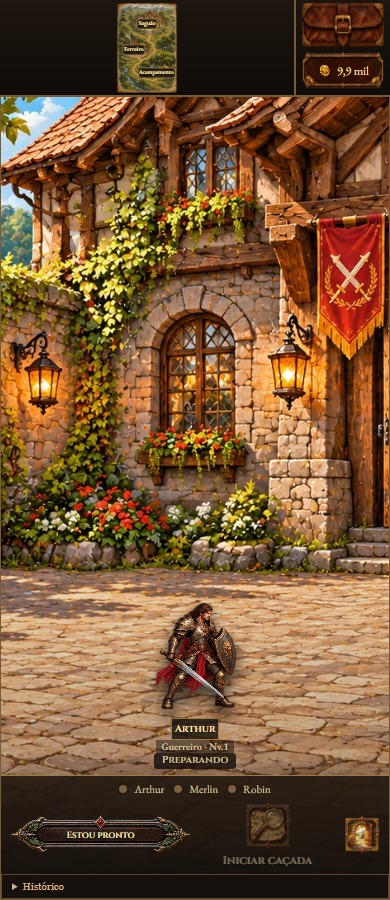
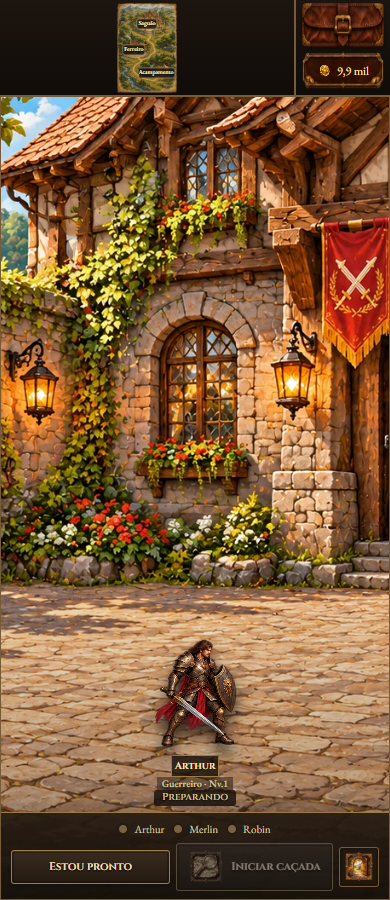
Align dungeon controls and battle history with campaign presentation

diff --git a/assets/js/systems/dungeon-rogue-app.js b/assets/js/systems/dungeon-rogue-app.js
@@ -40,7 +40,7 @@ function animate(before,after){
  for(const u of [...after.party,...after.enemies]){const old=[...before.party,...before.enemies].find(h=>h.id===u.id),target=root.querySelector(`[data-unit="${u.id}"]`);if(!old||!target||old.hp===u.hp)continue;const value=Math.round(u.hp-old.hp),f=document.createElement('span');f.className='rogue-float'+(value>0?' heal':'');f.textContent=(value>0?'+':'')+value;target.classList.add(value>0?'rogue-recover':'rogue-impact');target.append(f);setTimeout(()=>f.remove(),950);}
 }
 function send(intent){try{if(visualBusy)throw Error('Aguarde a sequência de golpes.');const p={...intent,revision:state.revision};if(net.info.mode==='guest')net.send(p,++seq);else commit(E.transition(state,localId(),p));}catch(e){message(e.message);}}
-function btn(label,action,data={},disabled=false,extra=''){return `<button type="button" data-action="${action}" ${Object.entries(data).map(([k,v])=>`data-${k}="${esc(v)}"`).join(' ')} ${disabled?'disabled':''} ${extra}>${label}</button>`;}
+function btn(label,action,data={},disabled=false,extra=''){const imageControl=action==='items'||/base-map-area|base-item-slot|base-equipment-slot|base-bag-button|base-person-button|rogue-entity-button|rogue-skill|rogue-basic|dungeon-hunt|base-exit/.test(extra);return `<button type="button" ${imageControl?'':'data-ui="action"'} data-action="${action}" ${Object.entries(data).map(([k,v])=>`data-${k}="${esc(v)}"`).join(' ')} ${disabled?'disabled':''} ${extra}>${label}</button>`;}
   function art(h){let key=slug(h.subclassChoices?.tier60||h.subclassChoices?.tier30||h.class),folder='heroes-v2';const f=h.effects||{};if(key==='corrompido'&&f.visualDemonTurns>0){key+='-demonio';folder='hero-forms';}if(key==='fada-monarca'&&f.natureCrownedTurns>0){key+='-coroada';folder='hero-forms';}if(key==='avatar-da-natureza'&&f.natureTrueFormTurns>0){key+='-verdadeira';folder='hero-forms';}return new URL('assets/visual/'+folder+'/'+key+'.webp',document.baseURI).href;}
   function figure(h){return `<span class="rogue-character" style="--hero-art:url('${art(h)}')" role="img" aria-label="${esc(heroTitle(h))}"></span>`;}
   function heroTitle(h){return E.withHero(state,h,null,()=>getDisplayedClassName(h));}
@@ -73,16 +73,17 @@ function btn(label,action,data={},disabled=false,extra=''){return `<button type=
     return `<section class="rogue-command"><div class="rogue-command-grid"><div class="rogue-potion-slot">${btn('<img src="assets/visual/hud/icon-potion.webp" alt=""><span>Itens</span>','items',{},!own||restricted)}</div><div class="rogue-skills">${btn(`<kbd>1</kbd><img src="${getSkillSpritePath(null,h.class)}" alt=""><span>Ataque básico</span><small>${basicCost} MP</small>`,'select',{kind:'basic'},!own||h.mp<basicCost,`class="rogue-basic ${selected?.kind==='basic'?'selected':''}" aria-label="Ataque básico" data-tip="${esc(E.withHero(state,h,state.enemies.find(e=>e.hp>0),()=>getBasicAttackTooltip()))}"`)}${skills.map((k,i)=>btn(`<kbd>${i+2<=9?i+2:''}</kbd><img src="${getSkillSpritePath(k,h.class)}" alt=""><span>${esc(k.name)}</span><small>${k.effectiveCost} MP</small>`,'select',{kind:'skill',skill:k.type},!own||!!k.blockedReason,`class="rogue-skill ${selected?.skillType===k.type?'selected':''}" data-tip="${esc(k.description+'\n'+R.targetDescription(k)+(k.blockedReason?'\n'+k.blockedReason:''))}" aria-label="${esc(k.name)}"`)).join('')}</div><div class="rogue-utilities">${btn('Encerrar turno','pass',{},!own||restricted)}</div></div><div class="rogue-passives">${passives(h)}</div><div class="rogue-target-prompt" role="status"><div>${selected?'<strong>'+esc(selected.label)+'</strong>':''}<p>${own?targetText:entry?.side==='enemy'?'Os inimigos estão agindo…':'Aguarde '+esc(h.characterName)+'.'}</p></div>${selected?btn('Cancelar','cancel'):''}${selected&&['self','party','enemies'].includes(selected.side)?btn('Confirmar','confirm'):''}</div></section>`;
   }
   function postBattle(){const cave=state.phase==='cave_pause',blocked=!isLeader()||state.party.some(h=>E.classChoices(h).length)||!cave&&state.party.some(h=>h.place!=='hunt');return `<div class="dungeon-recovery">${huntButton(cave?'Próximo combate':'Próxima caçada',cave?'caveNext':'nextHunt',blocked)}</div>${subclasses()}`;}
-  function battleView(){const fighting=state.phase==='battle',region=state.battleRegion||state.biomes[state.act];return `<section class="rogue-battle-scene" style="background-image:url('assets/visual/backgrounds/regions/${slug(region)}.webp')" aria-label="Campo de combate"><div class="rogue-enemies">${fighting?state.enemies.filter(e=>e.hp>0).map(enemyCard).join(''):''}</div><div class="rogue-party">${state.party.map(h=>heroCard(h,true)).join('')}</div></section>${fighting?toolbar():postBattle()}${itemMenu?itemPicker():''}`;}
+  function battleView(){const fighting=state.phase==='battle',region=state.battleRegion||state.biomes[state.act];return `<section class="rogue-battle-scene" style="background-image:url('assets/visual/backgrounds/regions/${slug(region)}.webp')" aria-label="Campo de combate"><div class="rogue-enemies">${fighting?state.enemies.filter(e=>e.hp>0).map(enemyCard).join(''):''}</div><div class="rogue-party">${state.party.map(h=>heroCard(h,true)).join('')}</div></section>${chronicleView()}${fighting?toolbar():postBattle()}${itemMenu?itemPicker():''}`;}
 
 function subclasses(){return state.party.filter(h=>E.classChoices(h).length).map(h=>`<section class="rogue-panel"><h3>${esc(h.characterName)} · Especialização</h3>${E.classChoices(h).map(c=>btn(esc(c.name),'subclass',{hero:h.id,id:c.id},!controls(h))).join('')}</section>`).join('');}
 function itemText(item,h){return item.type==='equipment'?E.withHero(state,h,null,()=>EquipmentSystem.describe(item,h)):item.description||item.name;}
 function itemCard(item,h,actions){return `<article class="journey-item"><img src="${getItemSpritePath(item)}" alt=""><div><strong>${esc(item.name)}</strong><p>${esc(itemText(item,h))}</p>${actions}</div></article>`;}
 function itemPicker(){const h=state.party.find(x=>x.id===E.current(state)?.id)||state.party.find(x=>x.id===activeHero);return `<section class="rogue-panel journey-items"><h3>Poções</h3>${h.inventory.filter(i=>i.type==='consumable').map(i=>itemCard(i,h,btn('Selecionar','potionSelect',{hero:h.id,uid:i.uid}))).join('')||'<p>Nenhuma poção disponível.</p>'}${btn('Fechar','closeItems')}</section>`;}
 function lobbyView(){return `<section class="rogue-lobby"><div class="rogue-lobby-scene"><div class="rogue-lobby-party">${state.party.map(h=>`<div>${figure(h)}<strong>${esc(h.characterName)}</strong><small>${esc(h.class)}</small></div>`).join('')}</div></div><aside class="rogue-panel"><h2>Seu aventureiro</h2><div class="rogue-class-grid">${Object.keys(classes).map(c=>btn(`${figure({class:c,subclassChoices:{}})}<span>${esc(c)}</span>`,'class',{value:c},false,`class="${c===selectedClass?'selected':''}"`)).join('')}</div><label>Nome<input id="journeyName" value="${esc(heroName)}" maxlength="28"></label><p>40 moedas · duas poções de vida e duas de mana · sem equipamentos.</p>${!state.party.some(h=>h.owner===localId())&&net.info.mode!=='guest'?btn('Adicionar herói','addHero',{},state.party.length===3):btn('Atualizar herói','configureHero')}${btn('Entrar no saguão','start',{},!isLeader()||!state.party.length)}${DungeonStore.read('run',null)?btn('Retomar jornada','resume'):''}<details><summary>Cooperativo</summary>${btn('Criar sala','host',{},!state.party.length||net.info.mode!=='solo')}<p>${esc(net.info.code)}</p><label>Código<input id="joinCode"></label>${btn('Entrar na sala','join')}</details><p role="status">${esc(statusMessage)}</p></aside></section>`;}
+function chronicleView(){const last=state.log.at(-1)||'A aventura aguarda.';return `<div class="rpg-chronicle" aria-label="Última ação"><span>${esc(last)}</span>${btn('Histórico','baseHistory')}</div>`;}
 function hubView(){const h=state.party.find(p=>p.id===activeHero&&controls(p))||state.party.find(controls);return h?.place==='hunt'?battleView():baseUI.view()+subclasses();}
 function encounterView(){return baseUI.encounter();}
-function render(){tip.hidden=true;const mode=state.phase;const body=`${mode==='lobby'?lobbyView():mode==='hub'?hubView():mode==='battle'?battleView():mode==='cave_pause'?battleView():mode==='ended'?`<section class="rogue-panel"><h1>${state.outcome==='victory'?'Jornada concluída':'Fim da jornada'}</h1><p>${state.battleNumber} batalhas · ${state.bosses} chefes vencidos.</p>${btn('Novo grupo','newRun')}</section>`:encounterView()}${state.log.length?'<details class="rogue-log"><summary>Histórico</summary><div>'+state.log.slice(-12).map(t=>'<p>'+esc(t)+'</p>').join('')+'</div></details>':''}${statusMessage?'<p role="status">'+esc(statusMessage)+'</p>':''}${net.info.mode==='guest'&&!net.info.connected?btn('Reconectar','reconnect'):''}`;root.innerHTML=!['lobby','ended'].includes(mode)?baseUI.shell(body):body;baseUI.sync();}
+function render(){tip.hidden=true;const mode=state.phase;const body=`${mode==='lobby'?lobbyView():mode==='hub'?hubView():mode==='battle'?battleView():mode==='cave_pause'?battleView():mode==='ended'?`<section class="rogue-panel"><h1>${state.outcome==='victory'?'Jornada concluída':'Fim da jornada'}</h1><p>${state.battleNumber} batalhas · ${state.bosses} chefes vencidos.</p>${btn('Novo grupo','newRun')}</section>`:encounterView()}${statusMessage?'<p role="status">'+esc(statusMessage)+'</p>':''}${net.info.mode==='guest'&&!net.info.connected?btn('Reconectar','reconnect'):''}`;root.innerHTML=!['lobby','ended'].includes(mode)?baseUI.shell(body):body;baseUI.sync();}
 function selectAction(d){const h=state.party.find(p=>p.id===E.current(state)?.id);if(!controls(h)||visualBusy)return;if(d.kind==='skill'){const k=E.available(state,h).find(k=>k.type===d.skill);if(!k||k.blockedReason)return;selected={kind:'skill',heroId:h.id,skillType:k.type,side:k.target,label:k.name};}else selected={kind:'basic',heroId:h.id,side:'enemy',label:'Ataque básico'};render();}
 async function click(a,d){if(baseUI.handle(a,d))return;const hero=d.hero||E.current(state)?.id;switch(a){case 'class':selectedClass=d.value;render();break;case 'active':activeHero=d.hero;render();break;case 'addHero':send({kind:'addHero',className:selectedClass,name:heroName||selectedClass,owner:localId()});break;case 'configureHero':send({kind:'configureHero',heroId:state.party.find(h=>h.owner===localId())?.id,className:selectedClass,name:heroName||selectedClass});break;case 'start':send({kind:'start'});break;case 'resume':{const s=DungeonStore.read('run',null);if(!E.validState(s))throw Error('Jornada salva incompatível.');net.close();s.leader='local';s.party.forEach(h=>{h.owner='local';h.offline=false;});commit(s);break;}case 'host':await net.host();break;case 'join':DungeonStore.write('roomCode',document.getElementById('joinCode').value.trim());await net.join(document.getElementById('joinCode').value.trim(),{className:selectedClass,name:heroName||selectedClass,relicId:'none',token});break;case 'reconnect':await net.join(net.info.code||DungeonStore.read('roomCode',''),{className:selectedClass,name:heroName||selectedClass,relicId:'none',token});break;case 'visit':baseUI.close();send({kind:a,heroId:hero,place:d.place});break;case 'ready':case 'rest':case 'hunt':case 'nextHunt':case 'caveNext':case 'leaveEncounter':case 'pass':send({kind:a,heroId:hero});break;case 'equip':case 'sell':case 'upgrade':send({kind:a,heroId:hero,uid:d.uid});break;case 'unequip':send({kind:a,heroId:hero,slot:d.slot});break;case 'buy':send({kind:a,heroId:hero,offerId:d.id});break;case 'bet':case 'skipBet':send({kind:'bet',heroId:hero,amount:a==='skipBet'?0:Number(document.getElementById('betValue').value)});break;case 'subclass':send({kind:a,heroId:hero,choiceId:d.id});break;case 'offerTrade':send({kind:a,heroId:hero,targetId:document.getElementById('tradeTarget').value,uid:document.getElementById('tradeItem').value,coins:Number(document.getElementById('tradeCoins').value)});break;case 'acceptTrade':case 'rejectTrade':case 'cancelTrade':send({kind:a,heroId:hero,tradeId:d.id});break;case 'select':selectAction(d);break;case 'cancel':selected=null;render();break;case 'confirm':if(selected)send({...selected,targetId:selected.side==='self'?selected.heroId:undefined});break;case 'hero':case 'enemy':if(selected&&(a==='hero'&&selected.side==='ally'||a==='enemy'&&selected.side==='enemy'))send({...selected,targetId:d.id});else inspect(d.id,a);break;case 'inspect':inspect(d.id,'hero');break;case 'items':itemMenu=!itemMenu;render();break;case 'closeItems':itemMenu=false;render();break;case 'campItems':activeHero=hero;itemMenu=true;render();break;case 'potionSelect':{const h=state.party.find(p=>p.id===hero),i=h.inventory.find(i=>i.uid===d.uid);if(state.phase!=='battle')send({kind:'potion',heroId:hero,uid:i.uid,targetId:hero});else{selected={kind:'potion',heroId:hero,uid:i.uid,side:'ally',label:i.name};itemMenu=false;render();}break;}case 'potionSelf':send({kind:'potion',heroId:hero,uid:d.uid,targetId:hero});break;case 'closeModal':baseUI.close();document.getElementById('rogueDialog').close();break;case 'abandon':if(confirm('Encerrar esta jornada?'))send({kind:'abandon'});break;case 'newRun':net.close();clearTimeout(enemyTimer);enemyTimer=null;state=E.lobby(Date.now().toString(36));render();break;}}
 function inspect(id,side){baseUI.close();const h=state.party.find(p=>p.id===id),e=state.enemies.find(p=>p.id===id),dialog=document.getElementById('rogueDialog');dialog.innerHTML=btn('Fechar','closeModal')+(h?`<h2>${esc(h.characterName)}</h2><p>${esc(heroTitle(h))} · Nv.${h.level} · ${h.coins} moedas · XP ${h.xp}/${100+(h.level-1)*25+Math.floor(h.level*h.level*1.5)}</p><dl>${Object.entries(E.stats(state,h)).filter(([k])=>['maxHp','maxMp','attack','power','crit','manaRegen','armor'].includes(k)).map(([k,v])=>'<dt>'+esc({maxHp:'Vida',maxMp:'Mana',attack:'Ataque',power:'Poder',crit:'Crítico',manaRegen:'Mana por turno',armor:'Resistência'}[k])+'</dt><dd>'+esc(k==='crit'?pct(v):v)+'</dd>').join('')}</dl><div class="rogue-passives">${passives(h)}</div>`:e?`<h2>${esc(e.name)}</h2><p>${e.hp}/${e.maxHp} HP · ${e.attack} ataque</p><p>${esc(E.enemyIntent(state,e).name)}</p>`:'');dialog.showModal();}

diff --git a/assets/styles/rpg-interface.css b/assets/styles/rpg-interface.css
@@ -1,0 +1,46 @@
+/* Shared campaign components. Frames reserve their actual border area. */
+@font-face{font-family:'RPG Cinzel';src:url('../visual/fonts/cinzel-variable.ttf') format('truetype');font-weight:400 900;font-display:swap}
+/* Action controls follow the campaign's simple, metal-edged turn controls. */
+body.rogue-page button[data-ui=action]{position:relative;min-width:0;min-height:42px;padding:9px 15px;border:1px solid #9c7d47;border-image:none;border-radius:3px;background:linear-gradient(#392b1e,#241a11);color:#f1dfb7;font:650 14px/1.35 'RPG Cinzel',Georgia,serif;text-shadow:0 1px 2px #000;box-shadow:inset 0 1px #e6c47d20,inset 0 0 0 2px #17110b80,0 2px 4px #0004;white-space:normal;overflow-wrap:normal;transition:background .15s,border-color .15s}
+body.rogue-page button[data-ui=action]:hover:not(:disabled){border-color:#ddbb76;background:linear-gradient(#513b25,#302216);filter:none;transform:none}
+body.rogue-page button[data-ui=action]:is(.primary,.selected,[aria-pressed=true]){border-color:#d6ae64;background:linear-gradient(#594126,#342418);color:#fff0c9;box-shadow:inset 0 -2px #bc9148}
+body.rogue-page button[data-ui=action]:disabled{opacity:.55;filter:none;color:#c4b69e;border-color:#766448;background:#282119;box-shadow:none}
+body.rogue-page button[data-ui=action]:focus-visible{outline:2px solid #ffe0a0;outline-offset:3px}
+/* The chronicle is the same last-action strip in the campaign and dungeon. */
+.rpg-chronicle{display:flex;align-items:center;justify-content:center;gap:14px;min-width:0;min-height:43px;padding:5px 30px;background:linear-gradient(90deg,#15100c,#2a1b11,#15100c);border-top:1px solid #72512d;border-bottom:1px solid #72512d;color:#ecdbb7;flex-shrink:0}
+.rpg-chronicle>span{min-width:0;white-space:nowrap;overflow:hidden;text-overflow:ellipsis;max-width:80%;font:550 17px/1.35 'RPG Leitura',Georgia,serif;color:#e7ddc6}
+.rpg-chronicle>button{flex:0 0 auto;width:auto}
+body.rogue-page .rpg-chronicle>button[data-ui=action]{min-height:30px;padding:4px 10px;font-size:12px}
+/* Skill cards, paintings and equipment slots keep their own independent frames. */
+body.rogue-page .rogue-command{background:linear-gradient(#23170e,#1a110c);border:0;box-shadow:inset 0 1px #977242,inset 0 -1px #070604}
+body.rogue-page .rogue-command .rogue-utilities>button[data-ui=action]{min-height:36px;padding:5px 2px;font-size:11px;border:1px solid #9c7d47;border-image:none}
+body.rogue-page .base-paper{background:#dec69a;border:23px solid transparent;border-image:url('../visual/hud/panel-parchment.webp') 70 75 fill;border-image-width:1;padding:10px 12px;color:#35251b;filter:drop-shadow(0 3px 5px #0004);text-shadow:none}
+.base-paper :is(h2,h3,p,small,dt,dd){text-shadow:none}
+.base-paper h2{font:650 20px/1.35 'RPG Cinzel',Georgia,serif}.base-paper h3{font:650 15px/1.4 'RPG Cinzel',Georgia,serif}.base-paper p{font:550 17px/1.45 'RPG Leitura',Georgia,serif}
+.base-forge-detail .base-item-description,.base-forge-detail .base-upgrade-preview{margin:12px 0;line-height:1.65}.base-forge-detail .base-upgrade-preview{color:#315325}
+.base-forge-detail .base-price{font-size:17px;padding:12px 0}.base-forge-detail>button[data-ui=action]{margin-top:5px}
+body.rogue-page .base-rest>button[data-ui=action]{font-size:13px;min-height:38px;padding:7px 12px}
+body.rogue-page .dungeon-hunt{display:flex;flex-direction:row;align-items:center;justify-content:center;gap:12px;min-height:64px;min-width:0;padding:7px 16px;border:1px solid #9c7d47;border-image:none;border-radius:3px;background:linear-gradient(#392b1e,#241a11);box-shadow:inset 0 1px #e6c47d20,inset 0 0 0 2px #17110b80;color:#f1dfb7}
+.dungeon-hunt>img{width:48px;height:48px;object-fit:contain;flex-shrink:0}.dungeon-hunt>span{font:650 14px/1.35 'RPG Cinzel',Georgia,serif;text-align:left}
+body.rogue-page .dungeon-hunt:disabled{opacity:.5;filter:saturate(.4)}
+body.rogue-page .base-exit{display:grid;place-items:center;width:50px;height:50px;flex:0 0 50px;border:1px solid #765b36;border-image:none;border-radius:3px;background:#21180fc9;padding:5px;box-shadow:inset 0 0 0 2px #17110b80}
+.base-exit>img{width:38px;height:38px;object-fit:contain}
+.base-hall-controls{gap:10px;padding:12px 20px}.base-hall-controls>div:last-child{gap:12px}.base-hall-controls .base-exit{margin:0}
+/* History opens in the campaign-style dialog, instead of expanding the page. */
+#rogueDialog.base-dialog[data-kind=history]{width:min(720px,calc(100vw - 30px));height:fit-content;max-height:calc(100dvh - 40px);padding:26px;border:3px double #bb9456;border-radius:0;background:#22170f;color:#f1dfb7;box-shadow:0 20px 100px #000d;overflow:hidden}
+#rogueDialog[data-kind=history] .base-modal-header{gap:15px;margin-bottom:20px;padding-bottom:15px;border-bottom:1px solid #98723d}
+#rogueDialog[data-kind=history] .base-modal-header h2{font:650 22px/1.35 'RPG Cinzel',Georgia,serif}
+#rogueDialog[data-kind=history] .base-modal-header>button[data-ui=action]{width:auto;min-width:0;min-height:34px;padding:5px 10px!important;font:650 12px/1.35 'RPG Cinzel',Georgia,serif!important;background:linear-gradient(#392b1e,#241a11)!important}
+.rpg-history-lines{min-height:0;overflow:auto;scrollbar-width:thin;scrollbar-color:#947143 #19120d;overscroll-behavior:contain}
+.rpg-history-lines p{border-bottom:1px solid #654b2e;padding:8px 0;margin:0;color:#e8d3aa;font:650 14px/1.5 'RPG Cinzel',Georgia,serif}
+@media(max-width:760px){
+ .rpg-chronicle{padding:5px 10px;gap:8px;justify-content:space-between;min-height:40px}.rpg-chronicle>span{flex:1;max-width:none;font-size:17px}body.rogue-page .rpg-chronicle>button[data-ui=action]{font-size:11px;min-height:28px;padding:4px 8px}
+ body.rogue-page button[data-ui=action]{min-height:34px;padding:6px 9px;font-size:11px}
+ body.rogue-page .base-paper{border-width:13px;padding:7px;filter:none}.base-paper h2{font-size:13px}.base-paper h3{font-size:12px}.base-paper p{font-size:13px;line-height:1.4}.base-forge-detail .base-price{font-size:12px;padding:8px 0}.base-forge-detail .base-item-description,.base-forge-detail .base-upgrade-preview{margin:8px 0;line-height:1.5}
+ body.rogue-page .base-rest>button[data-ui=action]{font-size:10px;min-height:30px;padding:5px 7px}
+ .base-hall-controls{padding:8px 10px;gap:6px}.base-hall-controls>div:last-child{gap:6px}.base-hall-controls button[data-ui=action]{flex:1}body.rogue-page .dungeon-hunt{min-height:46px;padding:5px 8px;gap:7px}.dungeon-hunt>img,.base-hall-controls .dungeon-hunt>img{width:36px;height:36px}.dungeon-hunt>span{font-size:11px}body.rogue-page .base-exit{width:40px;height:40px;flex:0 0 40px;padding:4px}.base-exit>img{width:30px;height:30px}
+ body.rogue-page .rogue-command .rogue-utilities>button[data-ui=action]{font-size:9px;padding:4px 2px;min-height:32px}
+ #rogueDialog.base-dialog[data-kind=history]{width:calc(100vw - 20px);max-height:calc(100dvh - 24px);padding:16px}#rogueDialog[data-kind=history] .base-modal-header{gap:8px}#rogueDialog[data-kind=history] .base-modal-header h2{font-size:18px}.rpg-history-lines p{font-size:14px}
+}
+
+#rogueDialog[data-kind=history]::backdrop{background:#080705ce;backdrop-filter:blur(3px)}

diff --git a/assets/js/systems/dungeon-base-ui.js b/assets/js/systems/dungeon-base-ui.js
@@ -30,7 +30,8 @@ const DungeonBaseUI=(()=>{
   function bag(){const h=hero(),s=state(),target=s.party.find(p=>p.id===recipient),item=h.inventory.find(i=>i.uid===chosen),items=h.inventory.filter(i=>(filter==='all'||(filter==='equipment'?i.type==='equipment':i.type==='consumable'))&&(!slotFilter||i.slot===slotFilter)),trade=!!target,canTrade=trade&&s.phase==='hub'&&h.place==='camp'&&target.place==='camp'&&h.owner===ctx.localId()&&!s.trades.some(t=>t.status==='pending'&&t.from===h.id);return `<header class="base-modal-header"><div><h2>${trade?'Trocar com '+esc(target.characterName):'Seus pertences'}</h2><span>${esc(h.characterName)} · ${coins(h.coins)} moedas</span></div>${btn('×','baseClose',{},false,'aria-label="Fechar bolsa"')}</header><section class="base-bag"><div class="base-bag-content"><nav class="base-bag-filters">${[['all','Tudo'],['equipment','Equipamentos'],['potions','Poções']].map(([id,name])=>btn(name,'baseFilter',{value:id},false,`aria-pressed="${filter===id}"`)).join('')}${slotFilter?btn('Todos os slots','baseClearSlot'):''}</nav><div class="base-bag-grid">${items.map(i=>itemSlot(i,'baseBagItem',{uid:i.uid},i.uid===chosen)).join('')||'<p>Nenhum item neste filtro.</p>'}</div>${pending(h)}</div><aside class="base-bag-detail">${item?`<div class="base-item-art">${imgFor(item)}</div><h2>${esc(item.name)}</h2><p>${esc(itemText(item,h))}</p>${reserved(item)?'<p class="base-reservation-note">Este item está reservado para uma troca.</p>':''}`:`<h2>${trade?'Selecione o que oferecer':'Inspecione um item'}</h2><p>${trade?'Escolha um item da sua mochila. Você também pode oferecer somente moedas.':'Selecione um item para ver seus atributos e ações.'}</p>`}${trade?`<label>Moedas a oferecer<input id="baseTradeCoins" type="number" min="0" max="${h.coins}" value="${tradeCoins}" inputmode="numeric"></label>${chosen?btn('Retirar item da oferta','baseClearItem'):''}${btn('Oferecer troca','baseOffer',{target:target.id},!canTrade||!!item&&reserved(item)||!item&&tradeCoins<=0,'class="wide primary"')}<p class="base-trade-note">${canTrade?'O destinatário precisa aceitar para receber.':s.trades.some(t=>t.status==='pending'&&t.from===h.id)?'Aguardando o aceite da oferta enviada.':'Ambos precisam estar no acampamento.'}</p>${btn('Voltar à bolsa','baseBag')}`:item?item.type==='equipment'?btn('Equipar','equip',{hero:h.id,uid:item.uid},s.phase!=='hub'||h.place!=='camp'||reserved(item)||!!item.classRestriction&&item.classRestriction!==h.class,'class="wide"'):btn(s.phase==='battle'?'Selecionar para usar':'Usar em mim','baseUse',{uid:item.uid},reserved(item)||!['hub','cave_pause','battle'].includes(s.phase)||s.phase==='battle'&&E.current(s)?.id!==h.id,'class="wide"'):''}${!trade&&item&&s.phase==='hub'&&h.place==='forge'?btn('Vender · '+coins(sellPrice(h,item))+' moedas','sell',{hero:h.id,uid:item.uid},reserved(item),'class="wide"'):''}</aside></section>`;}
   function personMenu(){const p=state().party.find(p=>p.id===person),h=hero();if(!p)return '';return `<header class="base-modal-header"><h2>${esc(p.characterName)}</h2>${btn('×','baseClose',{},false,'aria-label="Fechar"')}</header><div class="base-person-menu">${figure(p)}<p>${esc(heroTitle(p))} · Nível ${p.level}</p>${btn('Ver perfil','baseProfile',{id:p.id})}${p.id!==h.id&&h.place==='camp'&&p.place==='camp'?btn('Trocar','baseTrade',{id:p.id}):''}${ctx.controls(p)&&p.id!==h.id?btn('Selecionar personagem','baseControl',{id:p.id}):''}</div>`;}
   function equipmentMenu(){const h=hero(),item=h.equipment[slotFilter];return `<header class="base-modal-header"><h2>${esc(slots[slotFilter]||'Equipamento')}</h2>${btn('×','baseClose',{},false,'aria-label="Fechar"')}</header><div class="base-equipped-detail">${item?`<div class="base-item-art">${imgFor(item)}</div><h2>${esc(item.name)}</h2><p>${esc(itemText(item,h))}</p>${btn('Guardar na mochila','unequip',{hero:h.id,slot:slotFilter})}`:'<p>Este slot está vazio.</p>'}${btn('Escolher na bolsa','baseChooseEquipment')}</div>`;}
-  function sync(){if(!panel)return;if(state().phase==='ended'||state().phase==='lobby'){close();return;}dialog.dataset.kind=panel;dialog.classList.add('base-dialog');dialog.innerHTML=panel==='bag'?bag():panel==='person'?personMenu():equipmentMenu();if(!dialog.open)dialog.showModal();}
+  function history(){return `<header class="base-modal-header"><h2>Histórico de batalha</h2>${btn('Fechar ×','baseClose',{},false,'aria-label="Fechar histórico"')}</header><div class="rpg-history-lines">${state().log.map(line=>'<p>'+esc(line)+'</p>').join('')}</div>`;}
+  function sync(){if(!panel)return;if(state().phase==='ended'||state().phase==='lobby'){close();return;}dialog.dataset.kind=panel;dialog.classList.add('base-dialog');dialog.innerHTML=panel==='history'?history():panel==='bag'?bag():panel==='person'?personMenu():equipmentMenu();if(!dialog.open)dialog.showModal();}
   function open(name){panel=name;sync();}
   function close(){panel='';dialog.classList.remove('base-dialog');delete dialog.dataset.kind;if(dialog.open)dialog.close();}
   dialog.addEventListener('cancel',()=>{panel='';dialog.classList.remove('base-dialog');delete dialog.dataset.kind;});
@@ -38,6 +39,7 @@ const DungeonBaseUI=(()=>{
   dialog.addEventListener('input',e=>{if(e.target.id==='baseTradeCoins'){tradeCoins=Number(e.target.value)||0;const b=dialog.querySelector('[data-action=baseOffer]'),h=hero(),target=state().party.find(p=>p.id===recipient);if(b)b.disabled=!(state().phase==='hub'&&h.place==='camp'&&target?.place==='camp'&&h.owner===ctx.localId()&&!state().trades.some(t=>t.status==='pending'&&t.from===h.id)&&Number.isSafeInteger(tradeCoins)&&tradeCoins>=0&&tradeCoins<=h.coins&&(chosen||tradeCoins>0));}});
   function handle(a,d){const h=hero();if(a==='baseClose'){close();return true;}if(!a.startsWith('base'))return false;if(!h)return true;
    if(a==='baseLeave'){ctx.leave();return true;}
+   if(a==='baseHistory'){open('history');return true;}
    if(a==='baseBag'||a==='baseOffers'){recipient='';slotFilter='';filter='all';chosen='';open('bag');}
    else if(a==='basePerson'){person=d.id;open('person');}
    else if(a==='baseProfile'){close();ctx.inspect(d.id,'hero');}

diff --git a/dungeon.html b/dungeon.html
@@ -4,10 +4,11 @@
 <meta charset="UTF-8"><meta name="viewport" content="width=device-width,initial-scale=1"><meta name="theme-color" content="#17110c">
 <title>Dungeon — Além dos portões</title>
 <link rel="preload" href="assets/visual/fonts/cinzel-variable.ttf" as="font" type="font/ttf" crossorigin>
-<link rel="stylesheet" href="assets/styles/dungeon-rogue.css?v=20261106-turns-v5">
-<link rel="stylesheet" href="assets/styles/dungeon-campaign-skin.css?v=20261106-turns-v5">
-<link rel="stylesheet" href="assets/styles/dungeon-base.css?v=20261106-turns-v5">
-<link rel="stylesheet" href="assets/styles/dungeon-viewport.css?v=20261106-turns-v5">
+<link rel="stylesheet" href="assets/styles/dungeon-rogue.css?v=20261106-presentation-v6">
+<link rel="stylesheet" href="assets/styles/dungeon-campaign-skin.css?v=20261106-presentation-v6">
+<link rel="stylesheet" href="assets/styles/dungeon-base.css?v=20261106-presentation-v6">
+<link rel="stylesheet" href="assets/styles/dungeon-viewport.css?v=20261106-presentation-v6">
+<link rel="stylesheet" href="assets/styles/rpg-interface.css?v=20261106-presentation-v6">
 </head>
 <body class="rogue-page">
 <script>window.IS_DUNGEON_PAGE=true;window.DUNGEON_ROGUELITE=true;</script>
@@ -17,23 +18,23 @@
 <noscript>Ative o JavaScript para preparar sua expedição.</noscript>
 <script src="assets/vendor/peerjs-1.5.4.min.js"></script>
 <script src="assets/js/systems/storage-system.js"></script>
-<script src="assets/js/systems/dungeon-bootstrap.js?v=20261106-turns-v5"></script>
-<script src="assets/js/data/system-data.js?v=20261106-turns-v5"></script>
+<script src="assets/js/systems/dungeon-bootstrap.js?v=20261106-presentation-v6"></script>
+<script src="assets/js/data/system-data.js?v=20261106-presentation-v6"></script>
 <script src="assets/js/data/world-data.js"></script>
-<script src="assets/js/data/class-trees.js?v=20261106-turns-v5"></script>
+<script src="assets/js/data/class-trees.js?v=20261106-presentation-v6"></script>
 <script src="assets/js/data/enemy-art.js?v=20261104-phased-art"></script>
-<script src="assets/js/data/equipment-data.js?v=20261106-turns-v5"></script>
-<script src="assets/js/systems/equipment-system.js?v=20261106-turns-v5"></script>
-<script src="assets/js/systems/network-validation.js?v=20261106-turns-v5"></script>
+<script src="assets/js/data/equipment-data.js?v=20261106-presentation-v6"></script>
+<script src="assets/js/systems/equipment-system.js?v=20261106-presentation-v6"></script>
+<script src="assets/js/systems/network-validation.js?v=20261106-presentation-v6"></script>
 <script src="assets/js/systems/dungeon-shared.js"></script>
-<script src="assets/js/systems/page-navigation.js?v=20261106-turns-v5"></script>
-<script src="assets/js/systems/combat-status.js?v=20261106-turns-v5"></script>
-<script src="assets/js/systems/campaign-enemy-combat.js?v=20261106-turns-v5"></script>
-<script src="assets/js/game.js?v=20261106-turns-v5"></script>
-<script src="assets/js/data/dungeon-rogue-data.js?v=20261106-turns-v5"></script>
-<script src="assets/js/systems/dungeon-rogue-engine.js?v=20261106-turns-v5"></script>
-<script src="assets/js/systems/dungeon-journey.js?v=20261106-turns-v5"></script>
-<script src="assets/js/systems/dungeon-rogue-network.js?v=20261106-turns-v5"></script>
-<script src="assets/js/systems/dungeon-base-ui.js?v=20261106-turns-v5"></script>
-<script src="assets/js/systems/dungeon-rogue-app.js?v=20261106-turns-v5"></script>
+<script src="assets/js/systems/page-navigation.js?v=20261106-presentation-v6"></script>
+<script src="assets/js/systems/combat-status.js?v=20261106-presentation-v6"></script>
+<script src="assets/js/systems/campaign-enemy-combat.js?v=20261106-presentation-v6"></script>
+<script src="assets/js/game.js?v=20261106-presentation-v6"></script>
+<script src="assets/js/data/dungeon-rogue-data.js?v=20261106-presentation-v6"></script>
+<script src="assets/js/systems/dungeon-rogue-engine.js?v=20261106-presentation-v6"></script>
+<script src="assets/js/systems/dungeon-journey.js?v=20261106-presentation-v6"></script>
+<script src="assets/js/systems/dungeon-rogue-network.js?v=20261106-presentation-v6"></script>
+<script src="assets/js/systems/dungeon-base-ui.js?v=20261106-presentation-v6"></script>
+<script src="assets/js/systems/dungeon-rogue-app.js?v=20261106-presentation-v6"></script>
 </body></html>

diff --git a/assets/styles/dungeon-campaign-skin.css b/assets/styles/dungeon-campaign-skin.css
@@ -1,9 +1,6 @@
 /* The campaign's fonts, frames and square ability presentation. */
 @font-face{font-family:'RPG Leitura';src:url('../visual/fonts/eb-garamond-variable.ttf') format('truetype');font-weight:400 800;font-display:swap}
 .rogue-page{--ink:#f6e6bf;--muted:#d1c09b;--gold:#d6ae64;--edge:#765b36;font-family:'RPG Leitura',Georgia,serif!important;font-size:17px!important;font-weight:550}
-.rogue-page button{font-family:RogueTitle,Georgia,serif;font-weight:650;background:#201711;border:16px solid transparent;border-image:url('../visual/hud/button-normal.webp') 35 80 fill / 16px 34px / 0 stretch;border-radius:0;box-shadow:none;padding:1px 8px;text-shadow:0 1px 2px #000;min-height:44px}
-.rogue-page button.primary,.rogue-page button.selected{border-image-source:url('../visual/hud/button-active.webp');box-shadow:none!important}
-.rogue-page button:disabled{border-image-source:url('../visual/hud/button-disabled.webp')}
 .rogue-shell{max-width:1600px;width:100%;min-height:100dvh;background:#17110d;margin:auto}
 .rogue-page .rogue-panel{background:#21170ff5;border:1px solid #765b36;border-radius:0;box-shadow:none}
 .rogue-page :is(p,small,label,input,select,#rogueTooltip){font-family:'RPG Leitura',Georgia,serif}

diff --git a/index.html b/index.html
@@ -14,6 +14,7 @@
 <link rel="stylesheet" href="assets/styles/character-motion.css?v=20261030-rustic" />
 <link rel="stylesheet" href="assets/styles/zenith-motion.css?v=20261104-zenith-pilot" />
 <link rel="stylesheet" href="assets/styles/enemy-motion.css?v=20261104-ui-refine" />
+<link rel="stylesheet" href="assets/styles/rpg-interface.css?v=20261106-presentation-v6">
 </head>
 <body class="rpg-campaign">
 <div class="container">

diff --git a/docs/qa/apresentacao_dungeon_v6.md b/docs/qa/apresentacao_dungeon_v6.md
@@ -1,0 +1,23 @@
+# Apresentação da dungeon — revisão v6
+
+O estado anterior foi publicado na main no commit `c5b731e`. A publicação foi conferida no GitHub Pages por um navegador novo, que criou um herói e iniciou um combate sem erros ou arquivos ausentes; [registro](publication-c5b731e.json).
+
+Esta revisão substitui os botões de ação que usavam molduras de imagem esticadas por controles em CSS, seguindo as cores e bordas dos controles simples da campanha. Ícones de habilidades e a bolsa mantêm suas artes; os controles de ação passam a ter superfícies próprias em CSS. Os painéis de pergaminho agora reservam exatamente a largura de sua borda, como a campanha, evitando sobreposição e deformação das extremidades.
+
+O histórico expansível foi removido. No combate, a mesma faixa `.rpg-chronicle` mostra a última ação e o botão **Histórico**. O botão abre uma janela de **Histórico de batalha**, com registros completos disponíveis e rolagem interna. Fora do combate, a faixa não aparece. A aparência e fonte da faixa foram comparadas com os estilos efetivamente calculados no navegador da campanha.
+
+O arquivo [rpg-interface.css](../../assets/styles/rpg-interface.css) é carregado na campanha e na dungeon para compartilhar a faixa de histórico; também organiza os componentes visuais de ação da dungeon. Regras de combate e progressão permanecem no mesmo motor.
+
+## Validação
+
+- `node scripts/qa-dungeon-presentation.cjs`: sete verificações dos controles, faixa e janela de histórico, comparação real com a campanha e janelas em desktop/celular.
+- `node scripts/qa-dungeon-viewport.cjs`: 53 verificações de tamanho, combate, sequência de golpes, mochila e pós-combate.
+- `node scripts/qa-dungeon-base-ui.cjs`: 25 verificações de serviços, equipamentos, compras e troca pela bolsa.
+
+![Saguão](../hud/dungeon-viewport-hall-1366.png)
+
+![Ferreiro](../hud/dungeon-viewport-forge-1366.png)
+
+![Combate e faixa do histórico](../hud/dungeon-viewport-battle-1366.png)
+
+![Janela de histórico](../hud/dungeon-presentation-history-1366.png)
